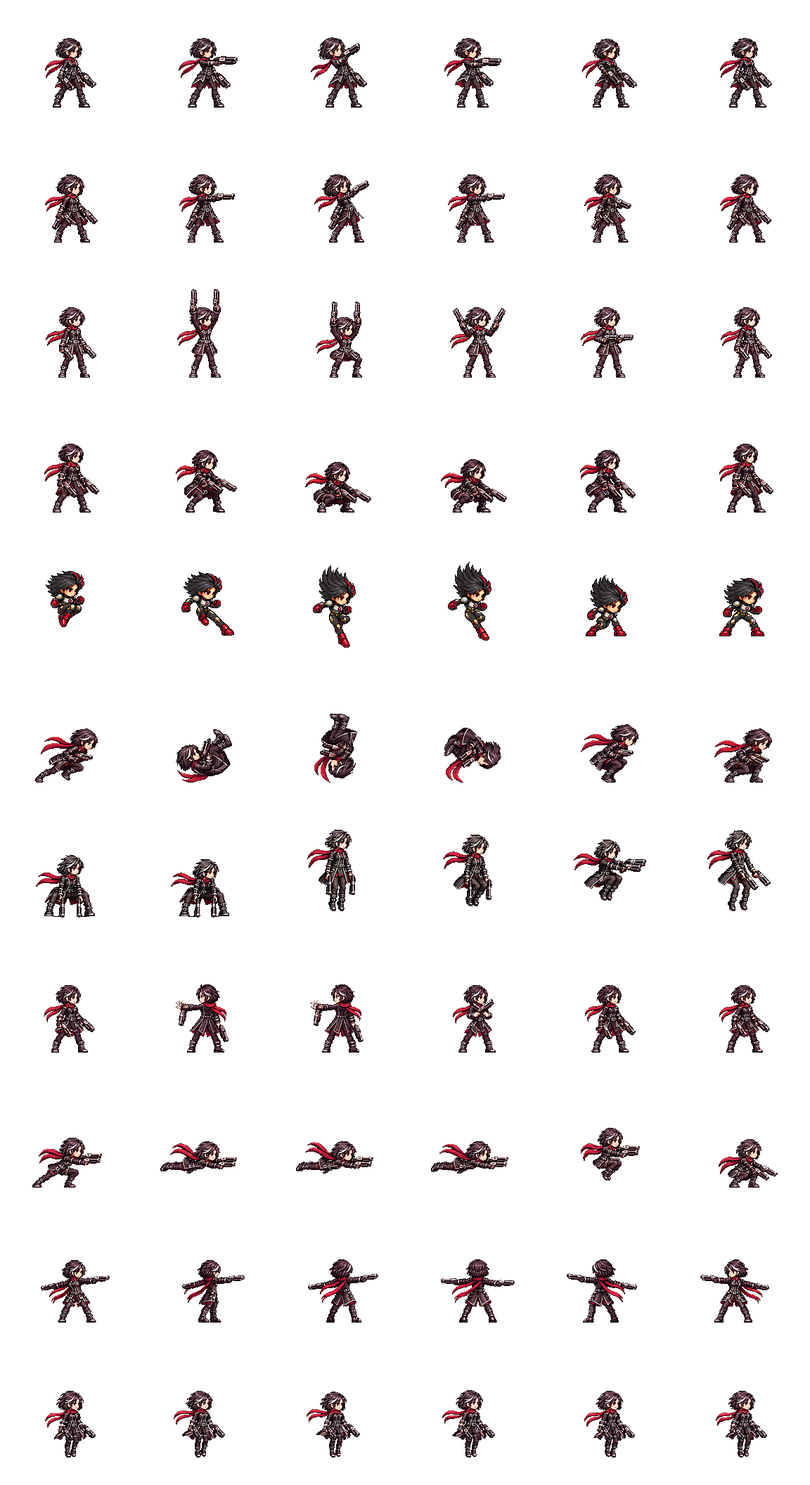
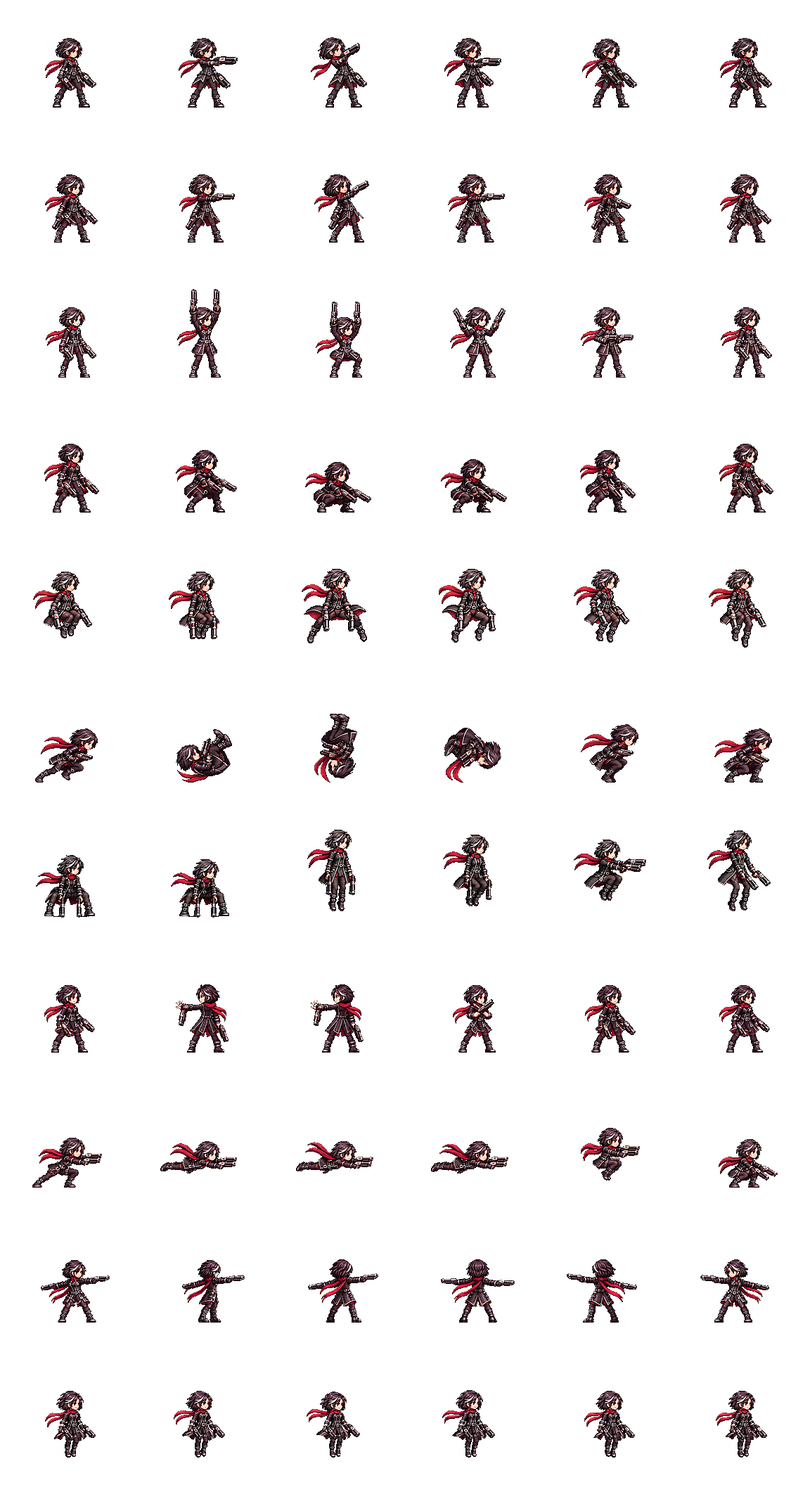
Xion's air-down J in the game: the user's pick v3 (CODEX-SKM-07, wide flare) as row 5 of her move sheet
Pick cup round 2026-11-24-air ("입력 완료", no notes): v3 2 wins, now 1 (over v2), v2 0. All eleven of her
move rows are her own art now. A recapture of the air-down reel matches the v3 clip in all 117 frames;
test_xion_kit, test_import_modes, test_fighter_motion and test_sprite_frames pass; the web build is
44.2 MiB and runs on 8060 with no console errors.

diff --git a/design/DECISIONS.md b/design/DECISIONS.md
@@ -74,5 +74,5 @@
 | D48 | **동작 이펙트를 pixelfx로 (2026-11-04, 사용자):** pixelfx(`/도트이펙트`, 코드로 그리는 픽셀 이펙트)로 만든 동작 이펙트 넷을 게임에 넣는다. Luna 대기 별(v3: 실루엣 가장자리 반짝임·지팡이 번쩍임·허리 둘레 별 셋, 머리 위와 얼굴 구역은 비움, 노말만), Luna 착지 별가루(v2: 공중 0.12초 이상 뒤 착지마다, Luna는 회색 먼지 대신), Frey 발걸음 먼지(v2: 달릴 때 걷기 4·8번째 그림의 앞발), Frey J 1~3타 끝 불꽃·금빛 반짝임(v2: `frey_slash`와 같은 자리·순간). 앞으로 동작 이펙트에는 이 스킬을 적극 쓰고, 세기는 v2(첫 시험보다 크고 많고 밝고 오래)를 기준으로 하며, 머리·얼굴 주변에는 반짝임을 많이 두지 않는다. 판정·피해·타이밍은 그대로다. | 사용자: "확실히 이런 식으로 이펙트를 추가하니까 더욱 좋다. 이 방향으로 나아간다면 이 스킬을 적극적으로 사용해도 될 것 같다. 다만 이펙트를 너무 소극적으로 넣은 것 같으니, 앞으로 추가 할 때는 조금 더 잘 보이도록", "Luna의 스탠딩 모션 V2에서 머리 쪽에 너무 반짝임이 과한 것 빼고는 이렇게 강화 한 형태가 더 좋아보인다", "새로운 Luna v3는 좋다. 현재 테스트로 만든 것들 전부 게임에 넣어볼 것." 비교 `reports/pixelfx-eval-2026-11-03/` 11~13장. 시트 `assets/art/effects/motion/`(README), 공용 부품 `PlayerBase.get_motion_overlays`·`get_motion_frame_effects`·`character_landing_effect`, 테스트 `test_motion_fx`. 게임에서 본 뒤(11-04) 사용자: "착지 별가루 빈도는 큰 점프에서 가장 최신의 뚜렷한 버전을, 작은 점프에서 이전의 작은 버전을 사용. 발걸음 먼지는 Frey의 발걸음 속도에 맞춰서 나오게." → 130px 이상 떨어진 착지는 v2, 그보다 낮으면 v1(`luna_land_stardust_small`); 먼지는 빈 첫 그림을 빼고 한 걸음(걷기 그림 4장) 안에 재생(전에는 0.2~0.3초 뒤에야 진해지고 0.69초 남았다). |
 | D49 | **시안 고르기는 시안 월드컵으로, 판정은 기록을 읽은 AI가 (2026-11-04, 사용자):** 새 페이지(https://claude.ai/artifact/B6VxzHK5etStnhK7L3bFAx, `tools/pick_cup/`)에서 두 시안을 같은 순간부터 나란히 재생해 A·B·비김을 고르고 시안마다 나은 점을 적는다. 셋 이상이면 모든 짝이 한 번씩 맞붙는 리그(승 3·무 1). 기록(`cup_matches`)을 Claude가 읽고 이유와 함께 판정(`cup_verdicts`)한 뒤, 판정된 것만 게임에 넣는다. 비교의 "지금"은 실제 지금 게임의 녹화이고, 기본 화면은 경기 카메라(0.85배)에 확대 버튼. 모션 뷰어는 동작 보기·속도 채택용으로 남는다. 기본 이펙트 보강 계획(Codex와 상의, `reports/debate-pixelfx-basic/decision.md`): 다섯 칸(공격 여운·점프 착지·발걸음·대기·적중 여운)은 점검표로 쓰고 필요한 것만, 대기는 선택; Frey 시범(공격 여운+적중 여운)부터; 후보는 지금+A+B; 적중 여운은 적중 한 번에 한 번; 누적 프레임 예산. | 사용자: "모션 뷰어를 더 간단히 하여 새로 하나를 만들 것 … 'XX 선택 월드컵' 같은 느낌으로 … 3개 이상의 시안은 모든 후보를 한번씩 리그 식으로 … 비기는 것도 가능 … 코멘트도 남기기 가능. 이후 최종적으로 AI가 기록을 본 뒤 판단하게 한다. 현재는 수량이 지나치게 많아지니 너무 뷰어 사이트 자체가 복잡해졌다.", "플레이어 캐릭터들의 기본 이펙트들의 pixelfx 스킬을 통한 보강 계획을 진행 할 예정이니 테스트의 과정과 결과를 보면서 Codex와 상의 해볼 것." 미결 후보 묶음이 253개(art/bakeoff에서 채택 표시 없는 것)라 예전 뷰어가 붐볐다. 첫 라운드: Frey 발걸음 먼지 길이 세 가지. → 한 걸음 2승(6점) · 한 걸음 반 3점 · 처음 넣은 것 0점, AI 판정 '한 걸음'(지금 게임 그대로). 사용자: "확실히 이 방법이 기존 방법보다 좋다." 이어서 사용자: "(대기 효과는) 일단은 Luna와 Yuki에게만. Frey부터 보강 시작." → Frey 시범(J 여운·적중 여운, 리드 A · Codex B, `reports/pixelfx-frey-pilot-2026-11-04/`). 시범 결과(시안 월드컵 2026-11-04-frey): J 여운은 B안(Codex) 2승, 적중 여운은 A안(리드) 2승, 진 안은 둘 다 '지금'에도 짐 → 둘 다 게임에 넣음(적중 여운은 `on_attack_hit_body`에서 한 번). 다음 묶음도 지금+A(리드)+B(Codex). 2026-11-05 밤 루틴의 8항목은 라운드 2026-11-19로 옮겨 사용자가 골랐다(2026-11-23, 모두 2전 2승): Frey 점프·착지, Luna 별 탄·발걸음·점프는 A("순간 강조"), Luna 적중 여운·Brave J 여운·Brave 적중 여운은 B("방향 있는 여운") → 사용자 "전부 진행해"로 게임에 넣음(`assets/art/effects/motion/README.md`). 같은 날 페이지 버그를 고쳤다: 고르면 다음 경기 이름만 바뀌고 영상·메모는 앞 경기 그대로였다(11-04부터, `5cdd6a8e`, 판정 7판). 그래서 2026-11-04-frey의 J 여운·적중 여운은 같은 라운드에서 다시 고른다(기록대로면 두 항목 모두 B와 '지금'만 세 번 봤고, 적중 여운은 세 번 다 '지금'을 골랐다). 다시 고른 결과(라운드 2026-11-24, 사용자 "입력 완료", 메모 없음): 둘 다 A안이 2전 2승이다. 적중 여운은 A 그대로 두고, J 여운은 B에서 A로 바꿨다(`reports/xion-skill-art-2026-11-24/`). |
 | D50 | **Rio 기술 변경과 세 번째 스킬 (2026-11-18, 사용자 "제안대로 넣기"):** 리드 제안 v3(`reports/rio-concepts-2026-11-04/`)를 칸마다 제안대로 넣었다. 패시브 **급소**: 적의 등 뒤(적이 보는 쪽의 반대편)에서 맞히면 피해 1.5배(몬스터 포함), 공중 점프 2회는 그대로. J 3타 **관통 베기**: 적을 뚫고 지나가며 베고 그 등 뒤에 선다(땅에서는 발판 끝에서 멈춤). K **마검 투척**: 던진 마검이 적·벽·땅에 꽂히거나 끝에서 멈추고, 3초 안에 다시 K로 그곳에 순간이동하며 벤다(적에게 꽂혔으면 그 등 뒤로). L **그림자 받아치기**: 0.4초 자세에서 첫 공격을 피해 없이 받고, 사라졌다가 때린 적의 등 뒤에 나타나 벤다. U **분신 바꿔치기**: 분신을 두고 150px 물러나고, 4초 안에 다시 U로 한 번 자리를 바꾼다. 분신은 공격을 한 번 대신 맞고 터진다. I **마검 난무**: 보석 검 여섯 자루를 주변 적에게 꽂고, 3초 안에 다시 I로 꽂힌 적의 등 뒤를 차례로 베고 돌아온다(안 누르면 검이 터짐). 예전 J 3타 검기, 차원의 베기, 룬 방패, 무한 오버드라이브는 없앴다. 그림은 임시(몸 동작은 예전 줄을 빌림). | 사용자: "제안대로 넣기"(2026-11-18, 제안 v3에 대한 답). 플레이 스타일(D46) "다양한 이동기로 적을 농락하는 암살자"에 맞춰 세 이동기의 목적지를 서로 다르게 했다(던진 검, 때린 적의 등 뒤, 분신 자리). 예전 K 차원의 베기는 Luna의 새 K 반짝 도약(D45)과 거의 같았다. 리드가 채운 빈 부분(`reports/rio-kit-2026-11-18/`): U 쿨다운 5초(없으면 순간이동 연타), 받아치기 사거리 500px(멀면 피하기만), 분신은 봇이 노리지 않음, 봇은 꽂힌 검·난무를 스스로 이어 씀, 맞아도 마검은 남음. 공용: `PlayerBase.damage_scale_against`(맞는 쪽이 공격자에게 피해 배율을 물음, `RealmMonster.apply_hit`도), `RealmMonster.is_down`. 테스트 `test_rio_kit`(예전 `test_rio_prototype`). |
-| D51 | **새 캐릭터 Xion(시온) (2026-11-18, 사용자 키트, "이대로 넣기"):** 총괄 세션을 거쳐 "신규 캐릭터 생성. 총잡이이며, 컨셉은 건카타", "여성으로. 이름은 Xion". 리드 제안 v1 대신 사용자가 직접 키트를 줬고(플레이 스타일 **중거리 견제와 암살**), 리드 평가의 빈 곳 19개에 리드 제안을 붙였다. 패시브 **더블 샷건**: J가 적을 밀어내고, 가까울수록 피해 최대 2배(60px 안 2배 → 250px 1배, 총알은 총구에서 잼). J **산탄 사격**: 쌍산탄총 10발, 1초 2발, 다 쓰면 재장전 3초, 6초 안 쏘면 바로 가득, 사거리 약 250px. K **장전 구르기**: 180px, 처음 0.2초 무적, 탄 +2, 쿨다운 1.5초, 공중 한 번. L **반동 도약**: 남은 탄을 모두 발밑으로 쏘고 점프 한 번만큼 뜸, 탄 한 발에 피해 2, 착지 전 한 번. U **도플갱어**: Xion이 마지막으로 맞힌 적을 쫓아 처음 닿은 적을 3초 붙잡고(행동 불능, 피해만 들어가고 밀리지 않음) 머리 위에 앉음; 다시 U는 500px 안이면 0.2초 날아들기(지형 통과, 도착하면 도플갱어 소모·붙잡기 끝). I **이퀄리브리엄**: 2.5초 사방 난사, 도플갱어도 함께(붙잡은 채로도), 이동 40%, 앞뒤로 탄창 가득. 그림은 임시(Nova 여성체를 다시 칠함), 스토리 모드에는 아직 없음(D43, 데이터 `story: false`). **설정(사용자 2026-11-19, 「이미지/스프라이트 담당」에 줌):** 100년 동안 시간 개념이 없는 공간에서 시공간 괴물을 사냥하며 살아남아 현실로 돌아온 소녀. 도플갱어는 협력하는 다른 시간선의 Xion이고 일러스트에도 홀로그램처럼 넣는다. 외형은 시안 월드컵 `xion-concept`(A~F, C~F가 이 설정)에서 고른다. 게임 속 도플갱어도 진홍 홀로그램이다(셰이더: 진홍 단색, 세 줄마다 어둡게, 위에서 아래로 쓸고 가는 밝은 띠, 반투명 0.62와 가끔 끊김; `06b8041b`). **외형(사용자 2026-11-23, 시안 월드컵 2026-11-19 `xion-concept`):** B 짧은 코트(검은 코트·은색 테두리·진홍 스카프·은색 한 줄이 든 단발, 쌍산탄총)가 5전 5승 → 「이미지/스프라이트 담당」 ART-96·97로 기본 시트·동작 줄(점프·낙하·피격·착지·승리·패배)·홀로그램 분신이 선 일러스트·얼굴을 게임에 넣음(`b8594ca5`). 기술 그림은 「캐릭터 스킬 담당」이 Codex 후보(SKM-06·VFX-10)로 만들었다. 사용자가 시안 월드컵 2026-11-24에서 골랐다("입력 완료", 메모 없음): 몸 동작 10줄·아이콘 5개는 새 그림, 산탄·반동은 B, 분신 등장·날아들기 궤적은 A, 근접 2배 표시·재장전 표시·난사 탄은 '지금'(코드 그림) → 게임에 넣음. 공중 아래 J 줄(`shot_air_down`)만 아직 임시본이다. 사용자 "다시 그리기"(2026-11-24) → CODEX-SKM-07이 공중 자세로 두 안(v2·v3)을 그렸고, 시안 월드컵 `2026-11-24-air`에서 고른다. | 사용자 원문과 평가: `reports/xion-concept-2026-11-18/user-kit-review.md`. 사용자 고침(2026-11-18): "공격 한번에 사라지면 지나치게 약해진다. 대신 속도를 기본 캐릭터들의 절반으로 하고, 적이 공격하면 밀려나며 일정시간 더 느려지게 한다. 지속시간은 30초." → 없앨 수 없음, 200px/s, 맞으면 밀리고 2초 절반 속도, 30초. 이어서 "이대로 넣기". 리드가 채운 것: 날아들기는 순간이동이 아니라 보이는 이동(순간이동이 이미 Luna K, Rio K·L·U·I에 있음), 도착하면 붙잡힘 끝(원문 "소모"), 한 번 잡으면 사라짐, 쿨다운 10초, 몬스터 무시. 탄 표시는 총괄 의견대로 스킬 바(J 칸 탄 수, U 칸 남은 초·"!"), 머리 위는 재장전 중만. 공용: `PlayerBase.apply_pin_hold`·`release_pin_hold`·`is_pinned`(붙잡힘), `skill_counter(slot)`(스킬 바 칸 숫자), `CharacterRegistry.get_story_character_ids`, 선택 화면 6명이면 3열, 숫자 6 빠른 시작. 테스트 `test_xion_kit`(15가지), 보고서 `reports/xion-kit-2026-11-18/`. 설정 원문(2026-11-19): "한 소녀가 누군가에 의해 100년 간 시간의 개념이 없는 공간에서 시공간 괴물들을 사냥하며 살아남았고, 이후 현실로 돌아왔다", "도플갱어는 협력하는 또 다른 시간선의 Xion이라는 것으로 해서 일러스트에도 홀로그램 같은 모습으로 들어가게" → 컨셉 C~F(`reports/xion-art-2026-11-19/`). |
+| D51 | **새 캐릭터 Xion(시온) (2026-11-18, 사용자 키트, "이대로 넣기"):** 총괄 세션을 거쳐 "신규 캐릭터 생성. 총잡이이며, 컨셉은 건카타", "여성으로. 이름은 Xion". 리드 제안 v1 대신 사용자가 직접 키트를 줬고(플레이 스타일 **중거리 견제와 암살**), 리드 평가의 빈 곳 19개에 리드 제안을 붙였다. 패시브 **더블 샷건**: J가 적을 밀어내고, 가까울수록 피해 최대 2배(60px 안 2배 → 250px 1배, 총알은 총구에서 잼). J **산탄 사격**: 쌍산탄총 10발, 1초 2발, 다 쓰면 재장전 3초, 6초 안 쏘면 바로 가득, 사거리 약 250px. K **장전 구르기**: 180px, 처음 0.2초 무적, 탄 +2, 쿨다운 1.5초, 공중 한 번. L **반동 도약**: 남은 탄을 모두 발밑으로 쏘고 점프 한 번만큼 뜸, 탄 한 발에 피해 2, 착지 전 한 번. U **도플갱어**: Xion이 마지막으로 맞힌 적을 쫓아 처음 닿은 적을 3초 붙잡고(행동 불능, 피해만 들어가고 밀리지 않음) 머리 위에 앉음; 다시 U는 500px 안이면 0.2초 날아들기(지형 통과, 도착하면 도플갱어 소모·붙잡기 끝). I **이퀄리브리엄**: 2.5초 사방 난사, 도플갱어도 함께(붙잡은 채로도), 이동 40%, 앞뒤로 탄창 가득. 그림은 임시(Nova 여성체를 다시 칠함), 스토리 모드에는 아직 없음(D43, 데이터 `story: false`). **설정(사용자 2026-11-19, 「이미지/스프라이트 담당」에 줌):** 100년 동안 시간 개념이 없는 공간에서 시공간 괴물을 사냥하며 살아남아 현실로 돌아온 소녀. 도플갱어는 협력하는 다른 시간선의 Xion이고 일러스트에도 홀로그램처럼 넣는다. 외형은 시안 월드컵 `xion-concept`(A~F, C~F가 이 설정)에서 고른다. 게임 속 도플갱어도 진홍 홀로그램이다(셰이더: 진홍 단색, 세 줄마다 어둡게, 위에서 아래로 쓸고 가는 밝은 띠, 반투명 0.62와 가끔 끊김; `06b8041b`). **외형(사용자 2026-11-23, 시안 월드컵 2026-11-19 `xion-concept`):** B 짧은 코트(검은 코트·은색 테두리·진홍 스카프·은색 한 줄이 든 단발, 쌍산탄총)가 5전 5승 → 「이미지/스프라이트 담당」 ART-96·97로 기본 시트·동작 줄(점프·낙하·피격·착지·승리·패배)·홀로그램 분신이 선 일러스트·얼굴을 게임에 넣음(`b8594ca5`). 기술 그림은 「캐릭터 스킬 담당」이 Codex 후보(SKM-06·VFX-10)로 만들었다. 사용자가 시안 월드컵 2026-11-24에서 골랐다("입력 완료", 메모 없음): 몸 동작 10줄·아이콘 5개는 새 그림, 산탄·반동은 B, 분신 등장·날아들기 궤적은 A, 근접 2배 표시·재장전 표시·난사 탄은 '지금'(코드 그림) → 게임에 넣음. 공중 아래 J 줄(`shot_air_down`)은 사용자 "다시 그리기"(2026-11-24) → CODEX-SKM-07이 공중 자세로 그린 두 안 중 v3(넓게 벌리기)을 시안 월드컵 `2026-11-24-air`에서 골라 넣었다(v3 2승, 지금 1승, v2 0승). | 사용자 원문과 평가: `reports/xion-concept-2026-11-18/user-kit-review.md`. 사용자 고침(2026-11-18): "공격 한번에 사라지면 지나치게 약해진다. 대신 속도를 기본 캐릭터들의 절반으로 하고, 적이 공격하면 밀려나며 일정시간 더 느려지게 한다. 지속시간은 30초." → 없앨 수 없음, 200px/s, 맞으면 밀리고 2초 절반 속도, 30초. 이어서 "이대로 넣기". 리드가 채운 것: 날아들기는 순간이동이 아니라 보이는 이동(순간이동이 이미 Luna K, Rio K·L·U·I에 있음), 도착하면 붙잡힘 끝(원문 "소모"), 한 번 잡으면 사라짐, 쿨다운 10초, 몬스터 무시. 탄 표시는 총괄 의견대로 스킬 바(J 칸 탄 수, U 칸 남은 초·"!"), 머리 위는 재장전 중만. 공용: `PlayerBase.apply_pin_hold`·`release_pin_hold`·`is_pinned`(붙잡힘), `skill_counter(slot)`(스킬 바 칸 숫자), `CharacterRegistry.get_story_character_ids`, 선택 화면 6명이면 3열, 숫자 6 빠른 시작. 테스트 `test_xion_kit`(15가지), 보고서 `reports/xion-kit-2026-11-18/`. 설정 원문(2026-11-19): "한 소녀가 누군가에 의해 100년 간 시간의 개념이 없는 공간에서 시공간 괴물들을 사냥하며 살아남았고, 이후 현실로 돌아왔다", "도플갱어는 협력하는 또 다른 시간선의 Xion이라는 것으로 해서 일러스트에도 홀로그램 같은 모습으로 들어가게" → 컨셉 C~F(`reports/xion-art-2026-11-19/`). |
 | D52 | **웹 용량 (2026-11-24, 사용자 "추천대로 해"):** 웹에서 내려받는 양의 예산은 **45MB**다. `.partN` 조각은 빌드 때 gzip으로 압축하고, `index.html`의 로더가 브라우저에서 푼다(77.5 → 46.9MB, `160c9a5a`). 얼굴 39장과 타이틀 배경은 손실 WebP q0.9로 가져온다(−2.7MB, 지금 44.2MB). 스토리 장면 그림·시작 카드는 그대로 q0.85다. 그 밖의 모든 그림(몸·기술 시트, 동작 줄, 몬스터, 이펙트, 렐름 배경, 아이콘, UI 틀)은 무손실이다. 글자 처리 데이터(ICU, 2.7MB)는 그대로 둔다. | 총괄 보고서 `reports/web-size-2026-11-24/`의 추천대로다. 플레이어가 받는 양은 zip 크기가 아니라 조각 크기였다. 호스트는 모르는 확장자를 압축하지 않고 보내는 것이 보통이다. 몸 스프라이트 손실 압축(−9.2MB)은 하지 않는다: 색이 반 해상도로 저장돼 픽셀 경계가 번지고, 스프라이트 디테일 기준(D33)과 부딪힌다. ICU는 Godot 4.7이 한국어 번역이 있으면 `internationalization/locale/include_text_server_data=false`로 둬도 넣는다(시험함: 영어 번역만 두면 빠진다). 빼려면 export 뒤 pck를 고쳐야 해서 2.7MB 값어치가 없다. 지키는 장치: 검사 `test_import_modes`(run_all), 빌드 끝의 `Download: … (budget 45 MiB)` 줄과 넘을 때 경고, `assets/art/README.md` "가져오기 압축 규칙". |

diff --git a/design/SKILLS.md b/design/SKILLS.md
@@ -163,11 +163,11 @@
 
 플레이 스타일: **중거리 견제와 암살**(사용자 2026-11-18). 사용자가 직접 짠 키트에 리드가 빈 곳을 채우고 사용자가 고친 안(`reports/xion-concept-2026-11-18/user-kit-review.md`, "이대로 넣기", D51). 넣은 결과는 `reports/xion-kit-2026-11-18/`.
 
-역할과 방식: 쌍산탄총으로 밀어내며 견제하다가, 도플갱어가 붙잡은 적에게 붙어 두 배로 끝낸다. 붙잡힌 적은 밀리지 않으니 그동안 가까이서 연달아 쏜다. 탄창 10발과 재장전 3초가 박자를 만들고, K 구르기가 2발을 채운다. 여성체만(D22), 공중 점프 1회. 스토리 모드에는 아직 없다(D43, 데이터 `"story": false`). 그림: 기본 시트·얼굴·일러스트는 B(짧은 코트, 시안 월드컵 2026-11-19)다. 기술 동작 10줄·이펙트 4종·아이콘 5개는 시안 월드컵 2026-11-24에서 사용자가 골랐다(`assets/art/xion/README.md`, `reports/xion-skill-art-2026-11-24/`). 공중 아래 J 줄(`shot_air_down`)만 아직 임시다(Nova 여성체를 다시 칠한 그림). 새 그림 두 안(CODEX-SKM-07)이 시안 월드컵 `2026-11-24-air`에 있다.
+역할과 방식: 쌍산탄총으로 밀어내며 견제하다가, 도플갱어가 붙잡은 적에게 붙어 두 배로 끝낸다. 붙잡힌 적은 밀리지 않으니 그동안 가까이서 연달아 쏜다. 탄창 10발과 재장전 3초가 박자를 만들고, K 구르기가 2발을 채운다. 여성체만(D22), 공중 점프 1회. 스토리 모드에는 아직 없다(D43, 데이터 `"story": false`). 그림: 기본 시트·얼굴·일러스트는 B(짧은 코트, 시안 월드컵 2026-11-19)다. 기술 동작 10줄·이펙트 4종·아이콘 5개는 시안 월드컵 2026-11-24에서 사용자가 골랐다(`assets/art/xion/README.md`, `reports/xion-skill-art-2026-11-24/`). 공중 아래 J 줄(`shot_air_down`)은 다시 그린 CODEX-SKM-07의 v3(넓게 벌리기)이다(시안 월드컵 `2026-11-24-air`). 이제 기술 동작 11줄이 모두 새 그림이다.
 
 | 입력 | 기술 | 하는 일 | 주요 수치 | 몸 동작 | 이펙트와 그리기 | 상태 | 이펙트가 따라야 할 값 |
 | --- | --- | --- | --- | --- | --- | --- | --- |
-| `J` | 산탄 사격 | 누를 때마다 한 발(왼손·오른손 번갈아). 누른 방향을 45°로 맞춰 쏜다(방향 없으면 앞). 맞은 적을 밀어낸다. 탄이 없으면 쏘지 않고 머리 위 장전 표시가 튄다. 다음 발까지 0.15초 안에 누르면 그때 쏜다. | 10발 `[MAGAZINE]`, 0.5초 간격(1초 2발) `[SHOT_GAP]`, 선딜/후딜 0.06/0.18초; 피해 6, 넉백 220(옆 쏘기는 조금 위로); 상자 60×46을 30→137(×COMBAT, 몸 중심에서 약 250px)로 0.06초에 쓸기 `[SHOT_*]`; 재장전 3초 `[RELOAD_TIME]`, 6초 안 쏘면 바로 가득 `[IDLE_RELOAD]` | 옆: `shot`·`shot_alt` 1~5 번갈아, 위: `shot_up` 1~5, 아래(땅, 낮게 앞으로): `shot_down` 1~5, 공중 아래: `shot_air_down` 1~5(아직 임시 그림). 세 번째 그림이 쏘는 순간 | `effects/xion_blast.png`(B안 불꽃 조각 v2, 6그림 30fps, 총구 기준, 조준 방향으로 돌리고 왼쪽은 뒤집음). 파일이 없으면 코드 총구 섬광·산탄 줄. 판정 상자는 숨김 | 그림 | 조준 방향, 사거리 250px, 0.06초 |
+| `J` | 산탄 사격 | 누를 때마다 한 발(왼손·오른손 번갈아). 누른 방향을 45°로 맞춰 쏜다(방향 없으면 앞). 맞은 적을 밀어낸다. 탄이 없으면 쏘지 않고 머리 위 장전 표시가 튄다. 다음 발까지 0.15초 안에 누르면 그때 쏜다. | 10발 `[MAGAZINE]`, 0.5초 간격(1초 2발) `[SHOT_GAP]`, 선딜/후딜 0.06/0.18초; 피해 6, 넉백 220(옆 쏘기는 조금 위로); 상자 60×46을 30→137(×COMBAT, 몸 중심에서 약 250px)로 0.06초에 쓸기 `[SHOT_*]`; 재장전 3초 `[RELOAD_TIME]`, 6초 안 쏘면 바로 가득 `[IDLE_RELOAD]` | 옆: `shot`·`shot_alt` 1~5 번갈아, 위: `shot_up` 1~5, 아래(땅, 낮게 앞으로): `shot_down` 1~5, 공중 아래: `shot_air_down` 1~5(SKM-07 v3). 세 번째 그림이 쏘는 순간 | `effects/xion_blast.png`(B안 불꽃 조각 v2, 6그림 30fps, 총구 기준, 조준 방향으로 돌리고 왼쪽은 뒤집음). 파일이 없으면 코드 총구 섬광·산탄 줄. 판정 상자는 숨김 | 그림 | 조준 방향, 사거리 250px, 0.06초 |
 | `K` | 장전 구르기 | 누른 쪽(없으면 앞)으로 구른다. 처음 0.2초 무적, 탄 2발 장전(10발까지). 재장전 중이면 바로 2발이 생기고 재장전은 이어진다. 공중에서는 착지 전 한 번(수평). | 180px를 0.35초에 고르게 `[ROLL_*]`, 무적 0.2초, 쿨다운 1.5초, +2발 | `tumble` 전체 | 코드: "+2" 글자 | 도형 | 구르는 거리·방향 |
 | `L` | 반동 도약 | 남은 탄을 모두 발밑으로 쏘고 점프 한 번만큼 뜬다. 피해는 탄 수에 따른다. 쓰고 나면 재장전 3초. 탄이 없으면 안 된다. 착지 전 한 번. | 선딜/후딜 0.05/0.15초; 탄 한 발에 피해 2(10발이면 20), 넉백 300 아래로, 93×56(×COMBAT: 140×84, 무릎부터 아래) `[RECOIL_*]`; 뜨기 `jump_velocity×1.0` | `recoil_jump` 1~4 | `skill/xion_recoil_blast.png`(B안 두 갈래 불꽃, 6그림 30fps, 발 기준). 파일이 없으면 코드 산탄 줄 | 그림 | 발밑 부채꼴, 탄 수 |
 | `U` 1회 | 도플갱어 | 다른 시간선의 Xion(사용자 설정 2026-11-19)을 홀로그램으로 남긴다(진홍 단색·반투명·주사선·깜빡임). 지형을 지나 떠다니며 Xion이 마지막으로 맞힌 적 캐릭터를 쫓고(없으면 Xion 뒤를 따라다님), 처음 닿은 적 캐릭터를 3초 붙잡아 그 머리 위에 앉는다. 붙잡힌 적은 아무것도 못 하고, 누구에게 맞든 피해만 받고 밀리지 않는다. 없앨 수 없다: 적이 때리면 그 넉백만큼 밀리고 2초 동안 절반 속도. 붙잡는 중엔 밀리지 않는다. Xion의 공격·몬스터·지형 위험은 지나간다. 한 번에 하나. | 30초 `[DOUBLE_LIFETIME]`, 200px/s(캐릭터 달리기 366~432의 절반) `[DOUBLE_SPEED]`, 맞으면 100px/s 2초 `[DOUBLE_HIT_SLOW]`, 붙잡기 3초 `[PIN_TIME]`, 머리 위 96px `[HEAD_SEAT]`, 쿨다운 10초(사라진 뒤부터) `[DOUBLE_COOLDOWN]`, 후딜 0.2초 | 시전 `double_cast` 2~5, 도플갱어 `double_float`(반복) | `XionDouble`(Xion 그림 공유, 홀로그램 셰이더: 밝기를 진홍 한 색으로, 세 줄마다 어둡게, 위에서 아래로 쓸고 가는 밝은 띠, 반투명 0.62와 가끔 끊김; 플레이어 층). 등장은 `skill/xion_double_in.png`(A안 스캔 기둥, 6그림 24fps, 발 기준) | 그림 | 쫓는 적, 머리 위 자리, 남은 시간 |
@@ -248,7 +248,7 @@
 | 31 | Xion 도플갱어 | **그림(2026-11-24 적용)** 등장 A안(스캔 기둥)·날아들기 궤적 A안(주사선 리본) (VFX-10). 몸 동작 `double_cast`·`dive`·`double_float` 그림(SKM-06). 홀로그램은 코드 셰이더 그대로(Xion 그림 공유, 일러스트의 홀로그램과 맞춤) | 도플갱어 모습, 시전, 머리 위에 앉은 모습, 날아들기 궤적 | 200px/s, 머리 위 96px, 0.2초 |
 | 32 | Xion 이퀄리브리엄 | 탄은 코드(색 사각형) 그대로: 시안 월드컵 2026-11-24에서 사용자가 '지금'을 고름. 몸 동작 `barrage` 그림(SKM-06) | 사방 탄, 두 총구의 섬광 | 900px/s·0.3초, 0.05초 간격 |
 | 33 | Xion 패시브·탄 표시 | 코드 고리 그대로: 근접 적중·재장전 모두 시안 월드컵 2026-11-24에서 사용자가 '지금'을 고름 | 가까이 맞힌 표시, 머리 위 재장전 고리 | 1.6배 이상, 재장전 3초 |
-| 34 | Xion 아이콘·몸 동작 줄 | **그림(2026-11-24 적용)** 아이콘 5개, 몸 동작 10줄 (VFX-10, SKM-06, 시안 월드컵 2026-11-24). `shot_air_down`만 임시(Nova 다시 칠함). SKM-06의 두 번은 발이 바닥선에 붙고 반동으로 15px 떠서 보류했고, SKM-07(2026-11-24 "다시 그리기")이 공중 자세 v2·v3를 그려 시안 월드컵 `2026-11-24-air`에 올렸다 | 아이콘 `xion_j`·`xion_k`·`xion_l`·`xion_u`·`xion_i`; 몸 동작 11줄(`Xion.MOVE_SHEET_ROWS` 이름 그대로) | D51 |
+| 34 | Xion 아이콘·몸 동작 줄 | **그림(2026-11-24 적용)** 아이콘 5개, 몸 동작 11줄 (VFX-10, SKM-06, 시안 월드컵 2026-11-24). 공중 아래 J(`shot_air_down`)는 SKM-06 두 번이 발이 바닥선에 붙고 15px 떠서 보류됐고, 사용자 "다시 그리기"로 SKM-07이 공중 자세로 다시 그린 v3(넓게 벌리기)을 시안 월드컵 `2026-11-24-air`에서 골랐다 | 아이콘 `xion_j`·`xion_k`·`xion_l`·`xion_u`·`xion_i`; 몸 동작 11줄(`Xion.MOVE_SHEET_ROWS` 이름 그대로) | D51 |
 
 5~13의 이펙트는 2026-11-03 사용자 선택으로 넣었다(Frey 날개 A·검기 B·강림 빛 B·슬로우 모래시계, Luna 회오리 투사체 A·회전 중 B·나머지 B와 하나뿐인 후보; `reports/vfx-picks-2026-11-03/`). Frey K 아이콘(A안), 몸 동작 줄(`wing_hover`, `star_warp`, `brave_grab`, Nova 4줄), 별의 광선(하트 유지)은 사용자가 플레이 테스트 전에 리드에게 맡겨 2026-11-03 리드가 정했다(`reports/playtest-prep-2026-11-03/`). 남은 것: `whirl_spin`·`brave_cyclone`은 다시 그림.
 

diff --git a/AGENTS.md b/AGENTS.md
@@ -128,7 +128,7 @@ A run fails if Godot prints `SCRIPT ERROR`, `ERROR` or `Parse Error`, even with 
 | builder ×2 (2026-11-19: new character Xion's look, D51; request from the 총괄 session, brief `reports/xion-kit-2026-11-18/art-brief.md`; A "the long coat" in `art-a`, B "the short coat" in `art-b`, blind to each other) | `design/tasks/CODEX-ART-94.md` | `art/bakeoff/xion/{a,b}/`, `reports/codex-art-94{a,b}/` | merged A `a0a599ff`, B `a6c792dc` (illustration, face, 6-frame idle each; A's sprite measured about 3.3 heads, to be refit to 3 if it wins); both in the pick cup round `2026-11-19` (item `xion-look`, report `reports/xion-art-2026-11-19/`), waiting on the user; the user then asked for more varied concepts from her story (ART-95: C–F, illustration with a hologram double + one idle frame; `art-a` C, D merged `7f7f62ac`, `art-b` E, F merged `551e45cb`); all six in pick cup item `xion-concept` (15 matches), the user picked B (5 of 5, 2026-11-23) |
 | builder ×2 (2026-11-23~24: Xion B, the user's pick; "전부 진행해" through the 총괄 session) | `design/tasks/CODEX-ART-96.md`, `CODEX-ART-97.md`, `CODEX-ART-97-fix.md` | `art/bakeoff/xion/b/*-b2.*`, `reports/codex-art-96{a,b}/`, `reports/codex-art-97{a,b}/`, `reports/codex-art-97a-fix/` | ART-96: idle anchor v2 with the full scarf (`art-b`, merged `06a849b5`), illustration v2 with the hologram double drawn by the game's formula (`art-a`, `684bad2b`); ART-97: walk 8 + jump, fall, hurt, land (`art-b`, `acaebfd1`), attack, shield, victory (`art-a`, `657002af`); fix: victory feet on one shared anchor (13 → 0.5 px) and defeat with room per pose (`dd0d0f95`). Installed by the lead with `reports/xion-art-2026-11-19/install_b.py` (`test_sprite_frames` now checks `xion_sheet.png`) |
 | builder ×2 (2026-11-24: Xion's skill art from her B look, D51; the skill session, per the user's request relayed by 총괄 on 11-18: skill motions and effects with Codex, then the pick cup) | `design/tasks/CODEX-SKM-06.md` (body rows, `vfx-a`), `CODEX-VFX-10.md` (effects and icons, `vfx-b`) | `art/bakeoff/xion/b/xion-<row>-v*`, `art/bakeoff/effects/xion/`, `art/bakeoff/ui/status/xion_reload-*`, `art/bakeoff/skill_icons/xion/`, `reports/codex-{skm-06,vfx-10}/` | done after three runs (the PC slept twice and cut the first two: Modern Standby 01:21-07:09, first taken for an image_gen hang, then about 07:25-14:34; the third ran with a stall watchdog): SKM-06 merged `bbb72493`, `f1f5cabe` (10 of 11 rows; `shot_air_down` held, rises 15 px); VFX-10 merged `e3998e9d`, `173ceff5` (seven effects A/B, blast v2 within ±14°, five icons). Picked in pick cup round `2026-11-24` (in-game captures `cup_xion_fx_capture.gd`, `cup_xion_moves_capture.gd`) and in the game: the ten rows, the five icons, blast B, recoil B, double-in A, dive trail A; the tracer, point-blank burst and reload mark stay code. `reports/xion-skill-art-2026-11-24/` |
-| builder (2026-11-24 night: the user's "다시 그리기" for the one row SKM-06 held, Xion's air-down J; the skill session) | `design/tasks/CODEX-SKM-07.md` (`vfx-a`, branch `codex/skm-07`) | `art/bakeoff/xion/b/xion-shot_air_down-v2.*`, `-v3.*`, `art/raw/skm-07/`, `reports/codex-skm-07/` | done in 26 min, merged `dd1e57e2`: v2 compact tuck, v3 wide flare, both face 1.000, rise 3 and 4 px, boots above the line; in pick cup round `2026-11-24-air` (`cup_xion_moves_capture.gd --reel=air_down`) |
+| builder (2026-11-24 night: the user's "다시 그리기" for the one row SKM-06 held, Xion's air-down J; the skill session) | `design/tasks/CODEX-SKM-07.md` (`vfx-a`, branch `codex/skm-07`) | `art/bakeoff/xion/b/xion-shot_air_down-v2.*`, `-v3.*`, `art/raw/skm-07/`, `reports/codex-skm-07/` | done in 26 min, merged `dd1e57e2`: v2 compact tuck, v3 wide flare, both face 1.000, rise 3 and 4 px, boots above the line; the user picked v3 in pick cup round `2026-11-24-air` (`cup_xion_moves_capture.gd --reel=air_down`); it is row 5 of `xion_moves_sheet.png` |
 
 Units never edit product source (`smash-nine-prototype/scripts/`, `characters/`, `scenes/`, `project.godot`). Findings go to the lead.
 

diff --git a/design/ROADMAP.md b/design/ROADMAP.md
@@ -19,7 +19,7 @@
   - [ ] 다음: Yuki 스킬 컨셉(D46 "지역 장악·설치형")
   - [x] 새 캐릭터 Xion(건카타 총잡이, 여성, 사용자 2026-11-18): 사용자 키트 + 리드 평가 → 도플갱어 고침 → "이대로 넣기" → 게임에 넣음(D51, 임시 그림, `reports/xion-kit-2026-11-18/`)
   - [x] Xion 기본 그림: 시안 월드컵 `xion-concept`에서 사용자가 B(짧은 코트)를 고름(2026-11-23, D51) → 기본 시트·동작 줄·홀로그램 분신 일러스트·얼굴을 게임에 넣음(「이미지/스프라이트 담당」 ART-96·97, `b8594ca5`)
-  - [x] Xion 기술 동작 11줄·이펙트·아이콘: Codex 후보(CODEX-SKM-06 10줄, CODEX-VFX-10 이펙트 7종 A/B·아이콘 5개) → 시안 월드컵 라운드 `2026-11-24`(29경기) → 사용자 고름(2026-11-24 "입력 완료") → 게임에 넣음: 몸 동작 10줄·아이콘 5개는 새 그림, 산탄 B·반동 B·분신 등장 A·날아들기 A, 근접 2배·재장전 표시·난사 탄은 코드 그림 그대로(`reports/xion-skill-art-2026-11-24/`). 남은 것: 공중 아래 J 줄(`shot_air_down`). 사용자 "다시 그리기" → CODEX-SKM-07 v2(작게 모으기)·v3(넓게 벌리기) → 시안 월드컵 라운드 `2026-11-24-air`(사용자 고르기, 할 일 #218). 스토리 모드는 나중(D43)
+  - [x] Xion 기술 동작 11줄·이펙트·아이콘: Codex 후보(CODEX-SKM-06 10줄, CODEX-VFX-10 이펙트 7종 A/B·아이콘 5개) → 시안 월드컵 라운드 `2026-11-24`(29경기) → 사용자 고름(2026-11-24 "입력 완료") → 게임에 넣음: 몸 동작 10줄·아이콘 5개는 새 그림, 산탄 B·반동 B·분신 등장 A·날아들기 A, 근접 2배·재장전 표시·난사 탄은 코드 그림 그대로(`reports/xion-skill-art-2026-11-24/`). 공중 아래 J 줄(`shot_air_down`)은 사용자 "다시 그리기" → CODEX-SKM-07 v2(작게 모으기)·v3(넓게 벌리기) → 시안 월드컵 `2026-11-24-air`에서 v3을 골라 넣음. 스토리 모드는 나중(D43)
 - **봇 조절은 멈춤.** 과정·현재 상태·다음 대기열은 `design/BOT_TUNING.md`. 캐릭터 기술이 바뀌면 그 문서 6번 체크리스트대로 봇도 손본다(2026-10-10: Frey 강스파이크·Luna 레이저 재입력).
 - **스토리 모드(2026-10-22, D43)는 캐릭터 완성과 나란히 간다.** 캐릭터 기술·봇 두뇌·배틀로얄 규칙은 바꾸지 않는다. 단계는 아래 M4.
 

diff --git a/reports/xion-skill-art-2026-11-24/README.md b/reports/xion-skill-art-2026-11-24/README.md
@@ -124,9 +124,13 @@
 
 **게임 속 녹화:** `cup_xion_moves_capture.gd --reel=air_down --variant=<now|v2|v3>`. 점프, 꼭대기에서 아래로 사격, 착지를 세 번 찍는다. 지금 그림은 쏘는 순간에만 다른 캐릭터 그림(Nova를 다시 칠한 것)이 끼어들어 튄다.
 
-**시안 월드컵:** 라운드 `2026-11-24-air`, 1항목 3경기(지금·v2·v3), 페이지 Version 10. 사용자가 고르면 고른 줄을 `xion_moves_sheet.png` 5번째 줄에 넣는다.
+**시안 월드컵:** 라운드 `2026-11-24-air`, 1항목 3경기(지금·v2·v3), 페이지 Version 10.
+
+**결과(2026-11-24 23:17, 사용자 "입력 완료", 메모 없음):** v3(넓게 벌리기)이 2전 2승(6점)이다. 지금은 1승 1패(v2를 이김, 3점), v2는 0점이다.
+- **넣은 것:** v3을 `xion_moves_sheet.png` 5번째 줄(`shot_air_down`)에 넣었다. 이제 기술 동작 11줄이 모두 새 그림이다.
+- **확인:** 같은 장면을 다시 녹화했더니 117프레임 모두 v3 영상과 한 픽셀도 다르지 않았다. `test_xion_kit`, `test_import_modes`, `test_fighter_motion`, `test_sprite_frames`가 통과했다.
+- **웹:** 웹 빌드는 44.2MiB(예산 45MiB)다. 8060에서 Xion이 정상으로 나오고 콘솔 오류는 없다. 공중 아래 J가 나오는 순간은 웹 화면에서 잡지 못했고, 위 게임 녹화로 확인했다.
 
 ## 남은 것
 
-- **공중 아래 J(`shot_air_down`):** 시안 월드컵 `2026-11-24-air`에서 고르기(할 일 #218).
 - 스토리 모드의 Xion은 나중이다(D43).

diff --git a/smash-nine-prototype/assets/art/xion/README.md b/smash-nine-prototype/assets/art/xion/README.md
@@ -18,9 +18,9 @@ Xion's own art is **B, the short coat**. The user picked it in the pick cup (rou
 
 **Move rows (2026-11-24):** `xion_moves_sheet.png` holds the user's pick in the pick cup round `2026-11-24` (item `xion-moves`, the new rows won against the stand-in). Ten rows of CODEX-SKM-06 (`art/bakeoff/xion/b/xion-<row>-v1.png`, drawn from the B look) sit in their `Xion.MOVE_SHEET_ROWS` slots: 192-px cells, six frames, feet y=152. The skill session rebuilt the sheet; the report is `reports/xion-skill-art-2026-11-24/README.md`.
 
-Still stand-ins:
+**Air-down J (2026-11-24, late):** row 5, `shot_air_down`, is CODEX-SKM-07 take v3 (`art/bakeoff/xion/b/xion-shot_air_down-v3.png`, the wide flare), the user's pick in pick cup round `2026-11-24-air`. SKM-06's two drafts had stood on the feet line and risen 15 px; the redraw keeps her in the air (boots above y=152) with a 4 px rise at the shot. All eleven move rows are now her own art.
 
-- the `shot_air_down` row of `xion_moves_sheet.png` (row 5): Nova's female drawing recoloured. Both SKM-06 drafts rose 15 px with the recoil (about 4 px asked), so it waits for a redraw. `reports/xion-kit-2026-11-18/make_standin_art.py` made it.
+Still a stand-in:
 - `xion_portrait.png`: only a fallback; the menus use `xion_face.png`.
 
 The game draws her double from her own frames with a code hologram (`characters/xion/XionDouble.gd`), so it has no art of its own.
